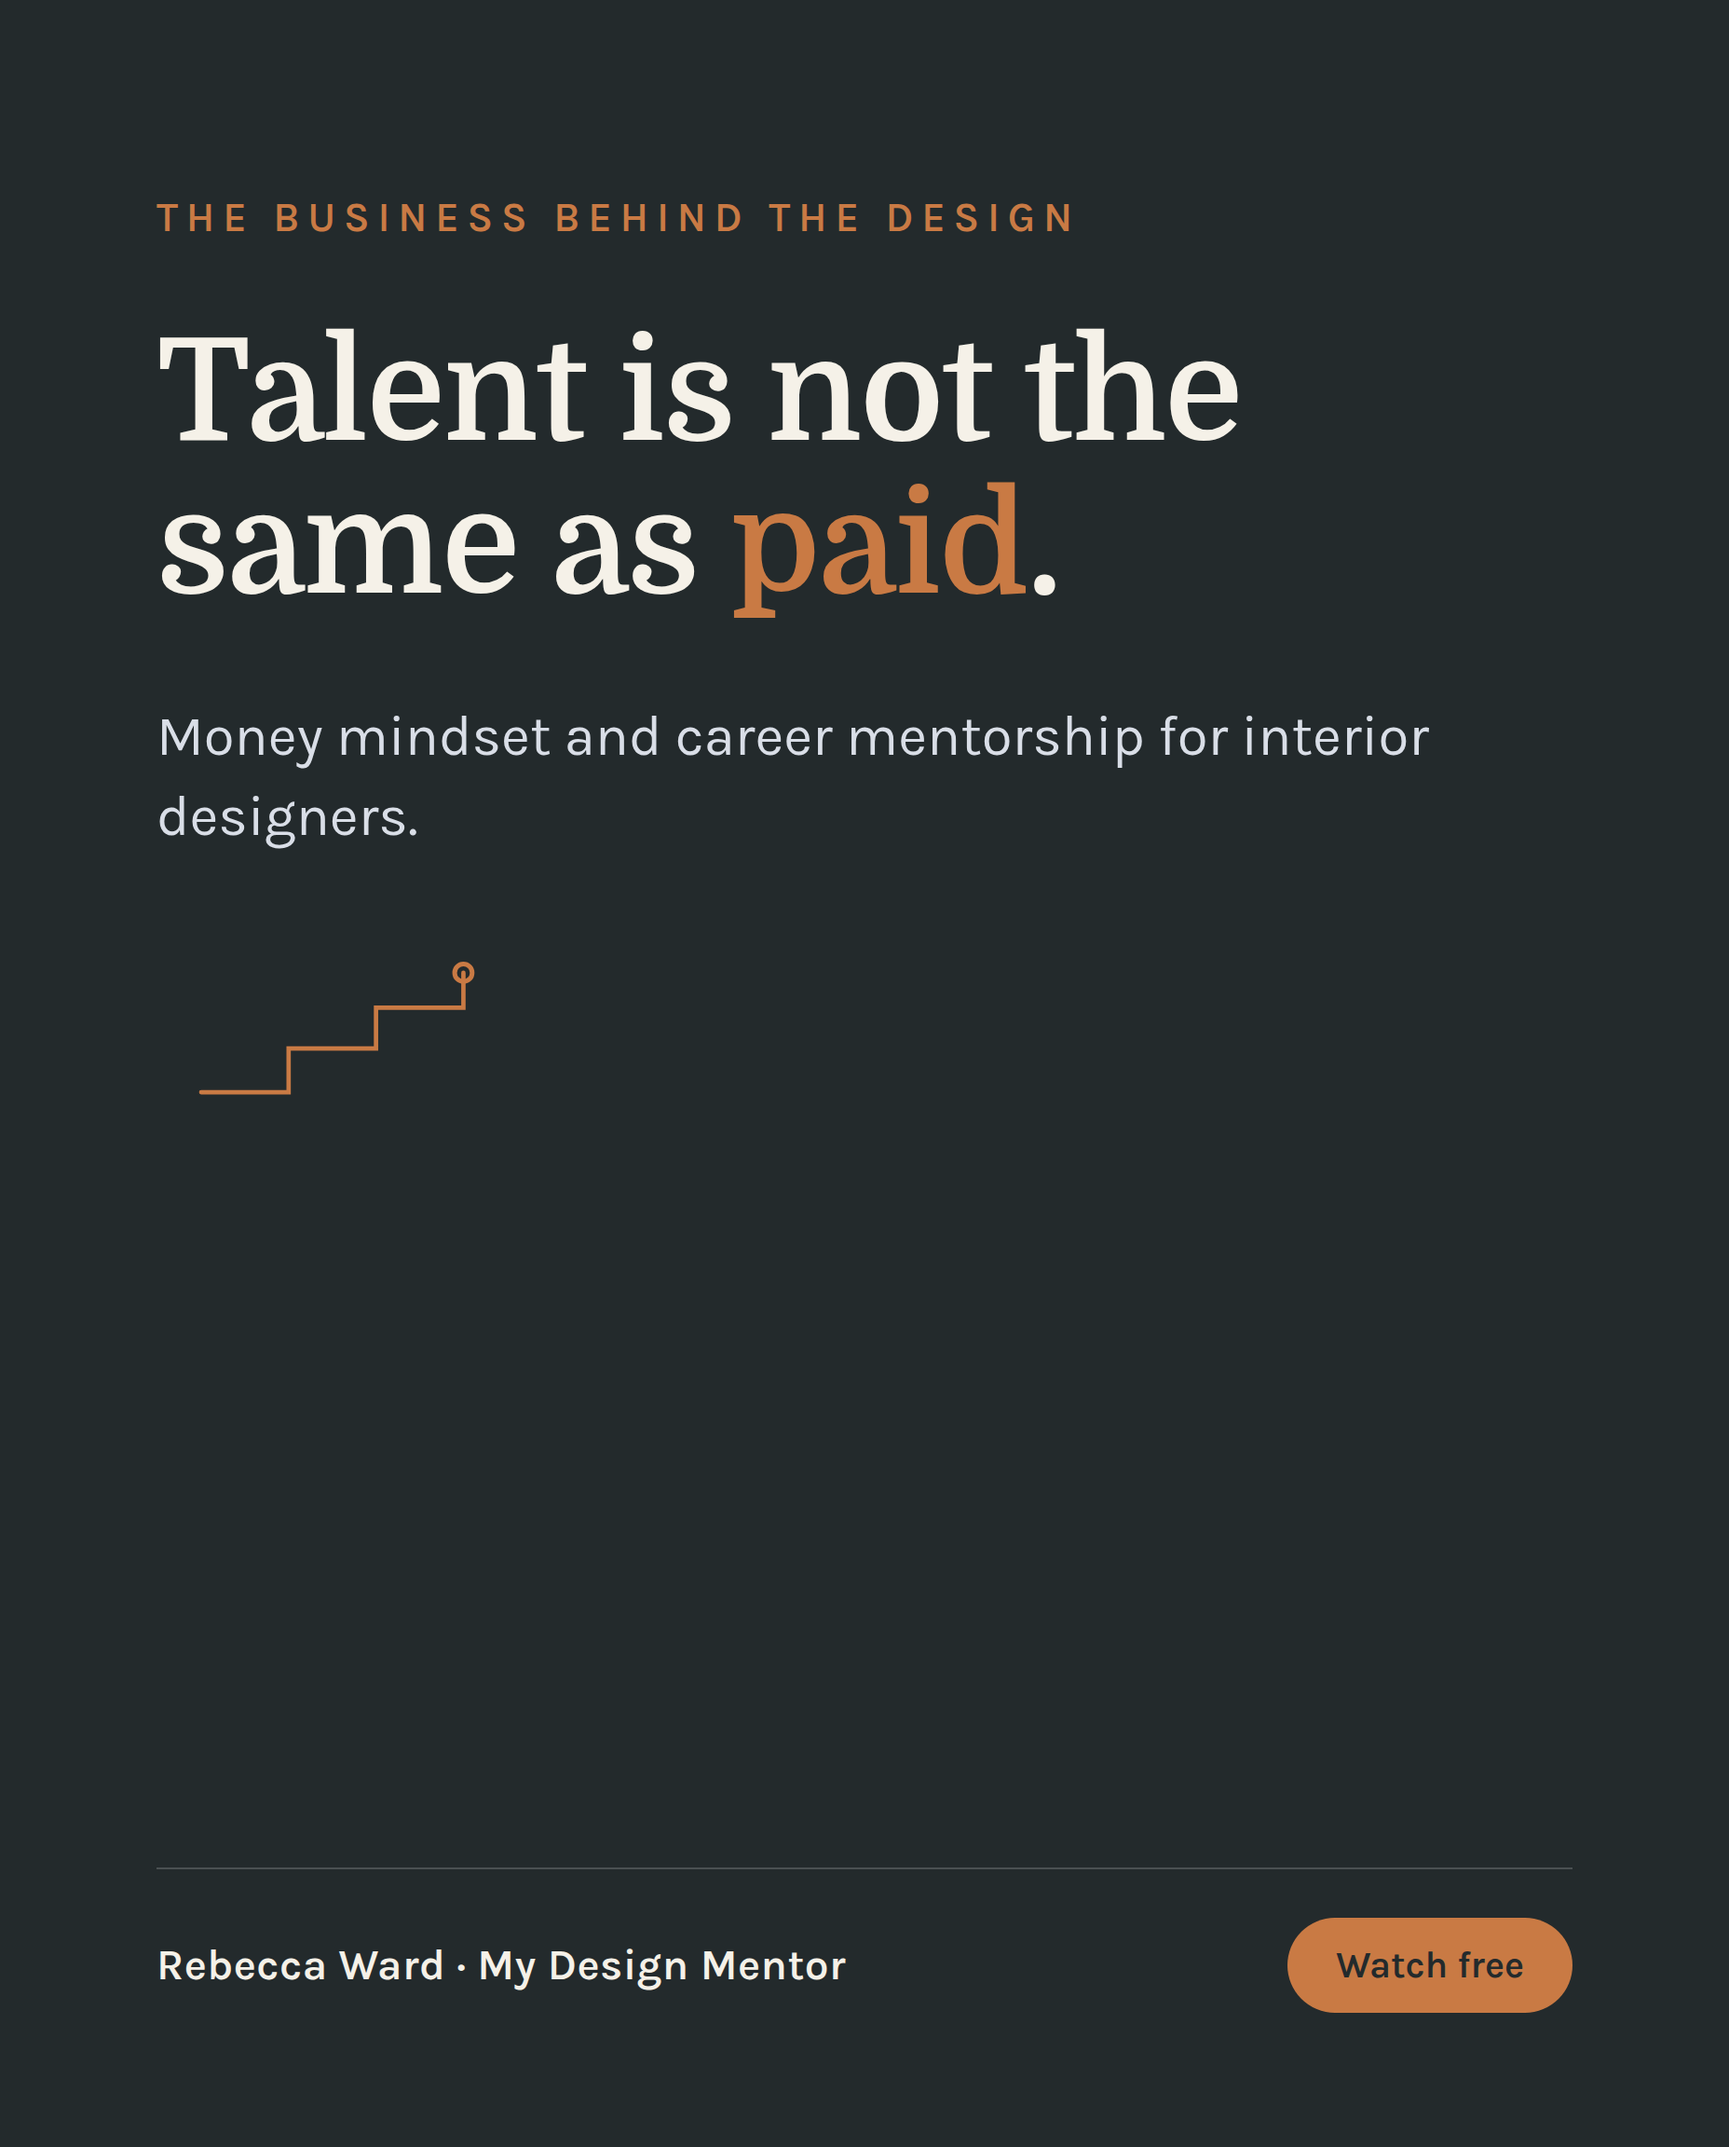
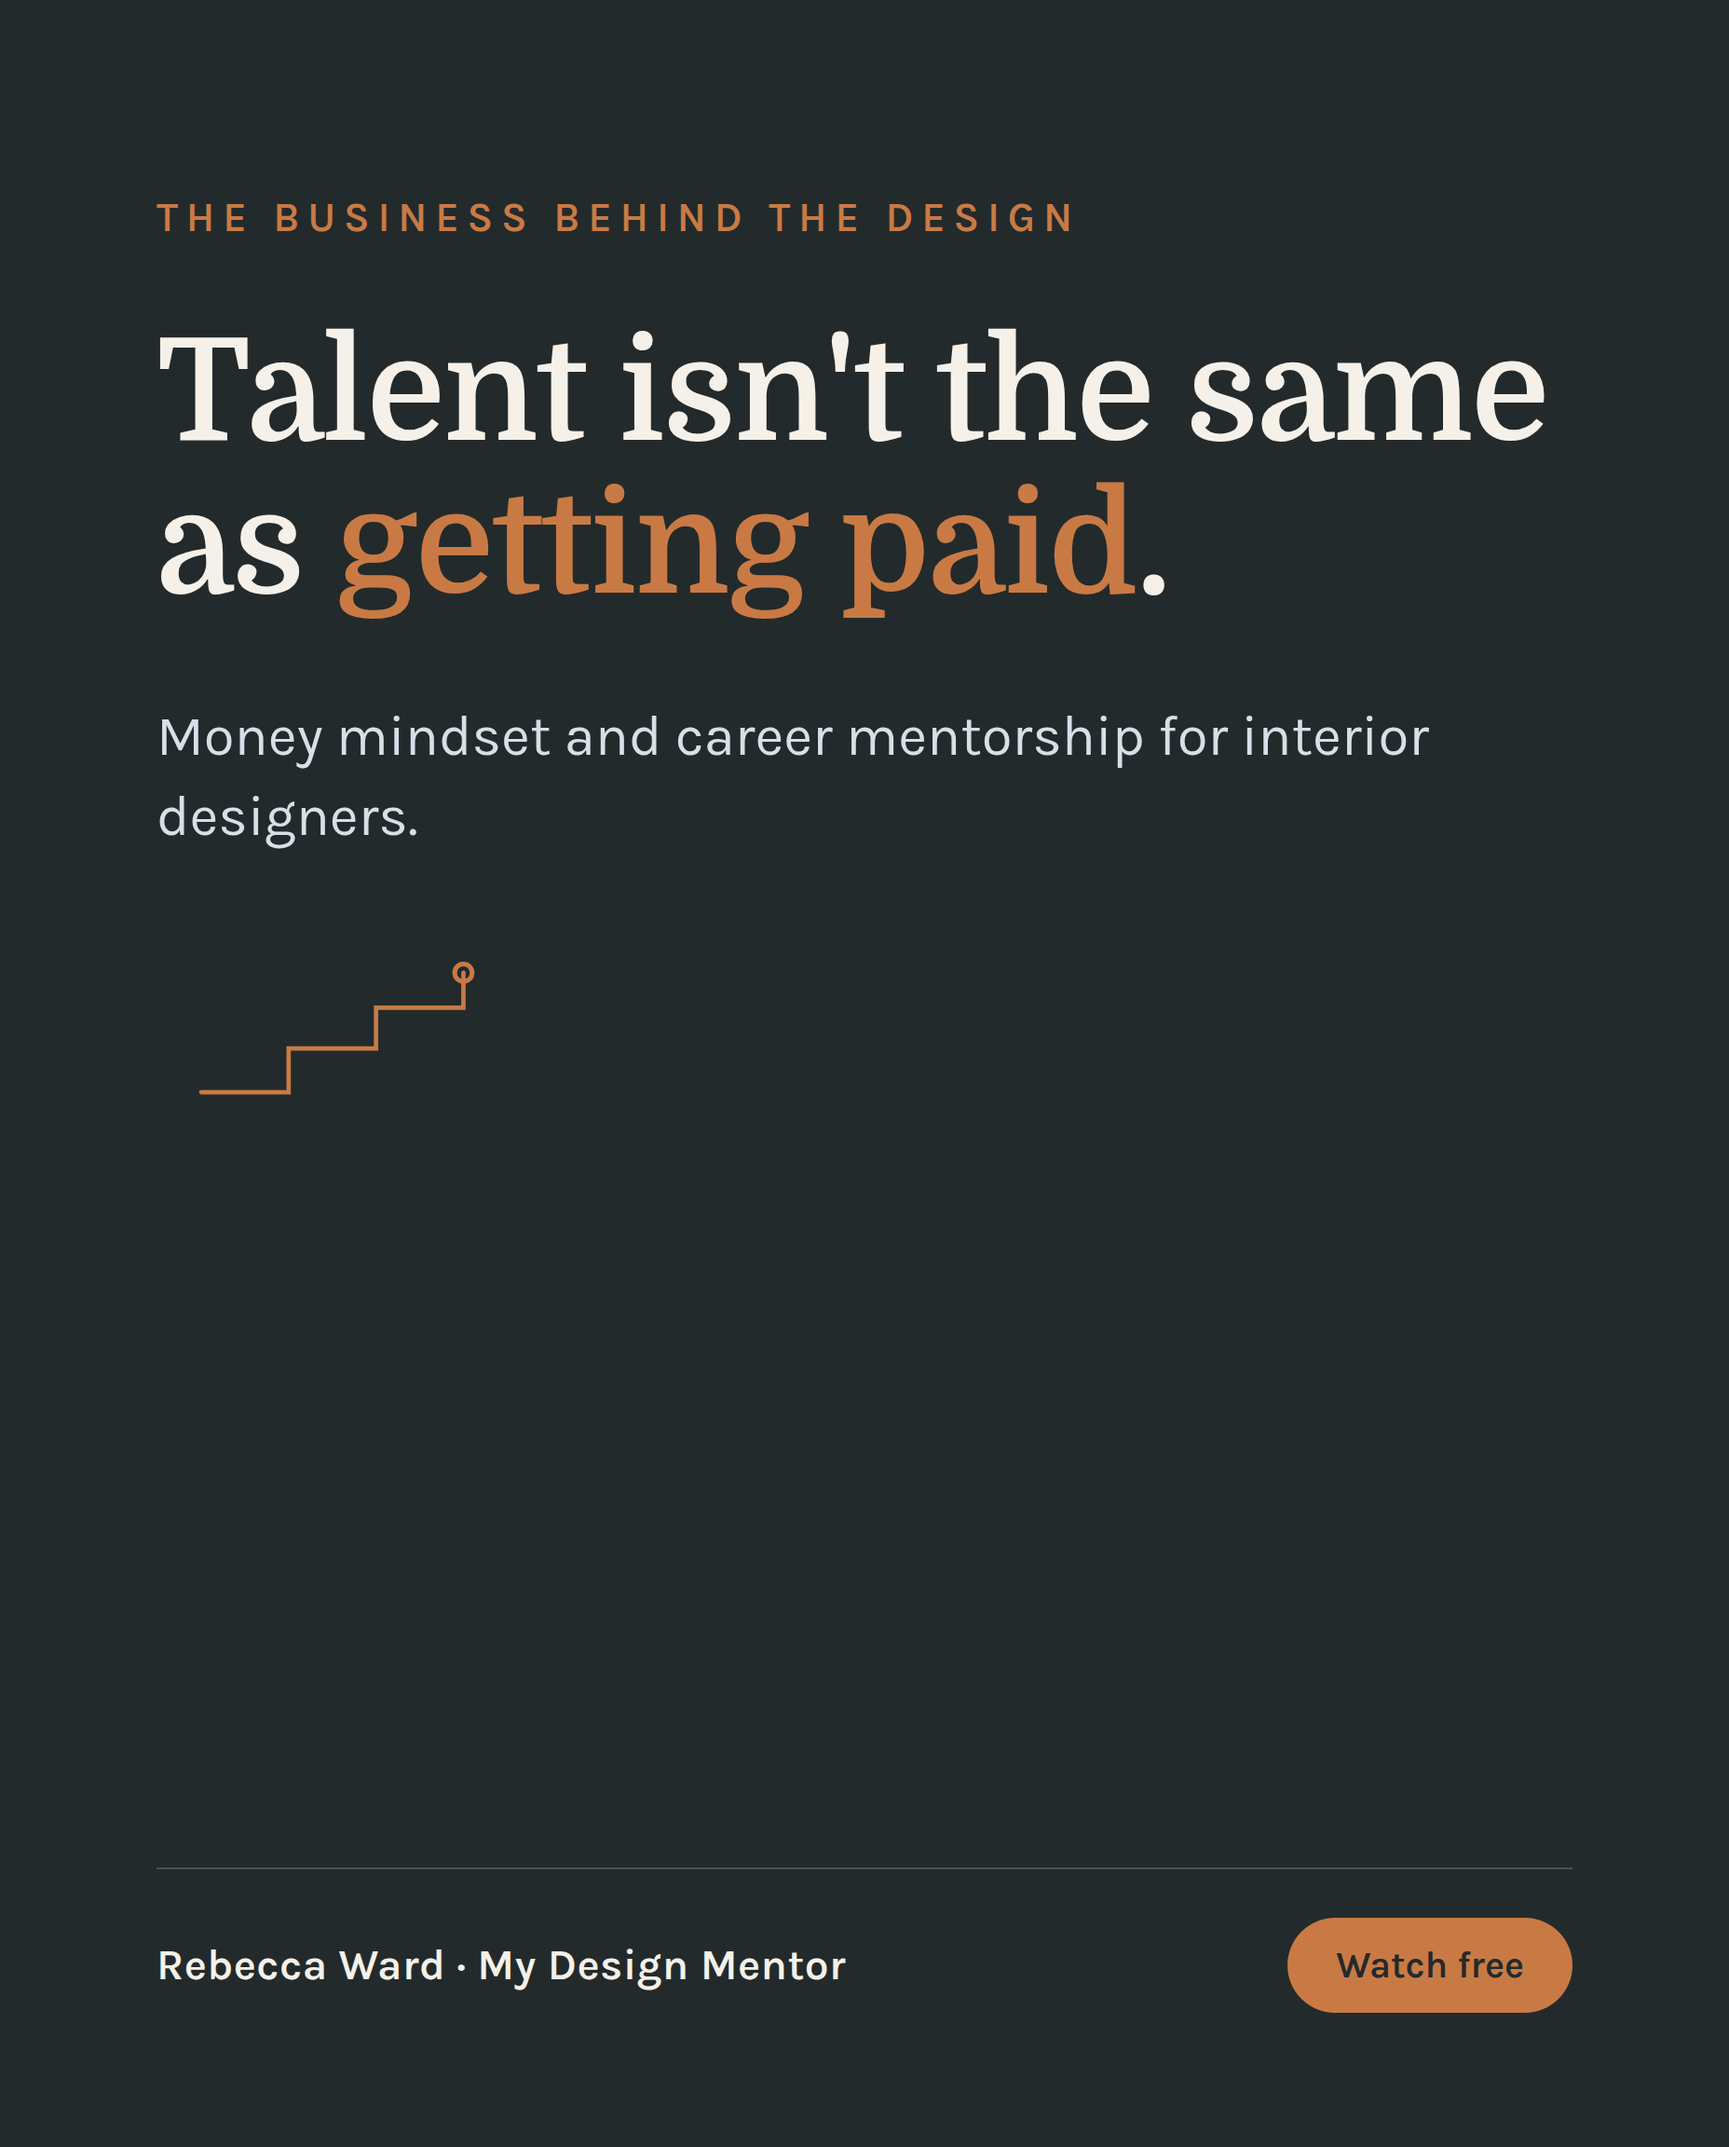
showcase: rebecca-ward

Changed region(s): [[0.0938, 0.1562, 0.9062, 0.3125]]

diff --git a/rebecca-ward/index.html b/rebecca-ward/index.html
@@ -91,10 +91,10 @@
       </thead>
       <tbody>
         <tr><td>Monthly ad spend</td><td>$1,500</td><td>$1,500</td></tr>
-        <tr><td>Cost per registration</td><td>$15</td><td>$9</td></tr>
-        <tr><td>Registrations / month</td><td>100</td><td>165</td></tr>
+        <tr><td>Cost per registration</td><td>$15</td><td>$10</td></tr>
+        <tr><td>Registrations / month</td><td>100</td><td>150</td></tr>
         <tr><td>Show rate</td><td>30%</td><td>40%</td></tr>
-        <tr><td>Masterclass viewers</td><td>30</td><td>66</td></tr>
+        <tr><td>Masterclass viewers</td><td>30</td><td>60</td></tr>
         <tr><td>New-member rate</td><td>3%</td><td>5%</td></tr>
         <tr><td>New members / month</td><td>1</td><td>3</td></tr>
         <tr class="hl"><td>New membership value added each month</td><td>~$200 / mo</td><td>~$590 / mo</td></tr>
@@ -118,7 +118,7 @@
         <tr class="you"><td>My Design Mentor / Rebecca Ward</td><td>Money mindset and career mentorship for designers</td><td class="not-running">Not running, as far as I can find</td></tr>
       </tbody>
     </table>
-    <p class="fn">Designers scroll the same feed as everyone else, and right now the loudest advertisers are schools selling the idea of becoming one. A couple of smaller coaches already run ads to practicing designers, proof the channel converts, while the established names are absent. Nobody is advertising the money-mindset step you teach. That lane is wide open for you, and the one piece missing is paid traffic into the masterclass above.</p>
+    <p class="fn">Designers scroll the same feed as everyone else, and right now the loudest advertisers are schools selling the idea of becoming one. A couple of smaller coaches already run ads to practicing designers, proof the channel converts, while the established names are absent. As far as I can find, nobody is advertising the money-mindset step you teach. That lane is wide open for you, and the one piece missing is paid traffic into the masterclass above.</p>
   </div>
 
   <div class="section">
@@ -128,7 +128,7 @@
     <div class="ad-grid">
       <img src="/rebecca-ward/ad01.png" alt="Ad concept: Can You Say Your Price Out Loud">
       <img src="/rebecca-ward/ad02.png" alt="Ad concept: Pick Your Path With Your Eyes Open">
-      <img src="/rebecca-ward/ad03.png" alt="Ad concept: Talent Is Not The Same As Paid">
+      <img src="/rebecca-ward/ad03.png" alt="Ad concept: Talent Isn't The Same As Getting Paid">
       <img src="/rebecca-ward/ad04.png" alt="Ad concept: My Design Mentor masterclass invitation">
     </div>
   </div>
